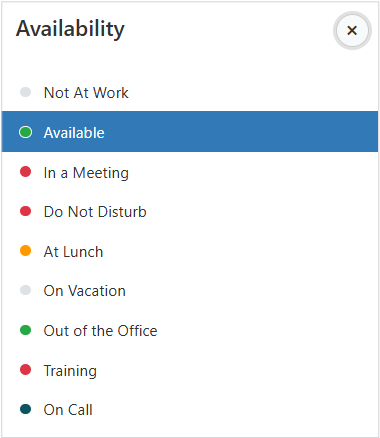
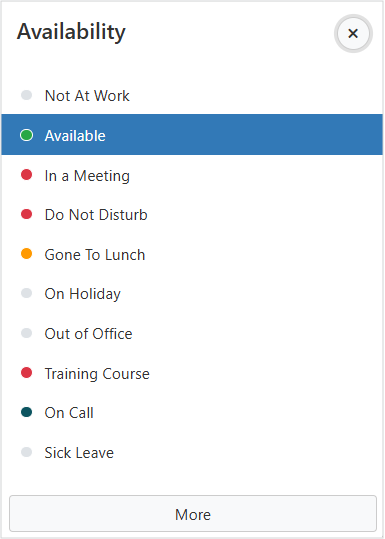
User Availability updates and images

diff --git a/esp-user-guide/availability-status.md b/esp-user-guide/availability-status.md
@@ -1,7 +1,7 @@
 # Availability Status
-The [User Availability Status](/esp-config/organizational-data/user-availability-states) is an optional feature that allows you to set your current work status. 
+The [User Availability Status](/esp-config/organizational-data/user-availability-states) is an optional feature that allows you to set your current work status. This can be a useful tool for your co-workers to determine if you are free for them to reach out to you.  Also, with Hornbill's powerful workflows, there are automatic actions that can consider your status to fulfill certain tasks.  
 
-## Enabled
+## Status Enabled
 When enabled, you will see your current status in the [Profile toolbar](/esp-user-guide/navigation#profile-toolbar). 
 
 ![Profile Toolbar](/_books/esp-user-guide/images/profile-toolbar.png)
@@ -21,7 +21,12 @@ Each status is color coded.  Different statuses may share the same color and wil
 * Blue - I am on call.
 * Grey - I am not at work.
 
-## Enabled with Time Recording
+### More
+At the bottom of the list of statuses is a `More` option.  This allows you to expand on your status and provide some context.  For example, if you are Out of Office, you could say when you are expected back.
+
+![User Availability Status More](/_books/esp-user-guide/images/user-availability-more.png)
+
+## Status Enabled with Time Recording
 When Time Recording is enabled, the time of each status change will be captured and visible to you and other users.
 
 ![Status with Time](/_books/esp-user-guide/images/status-with-time.png)
